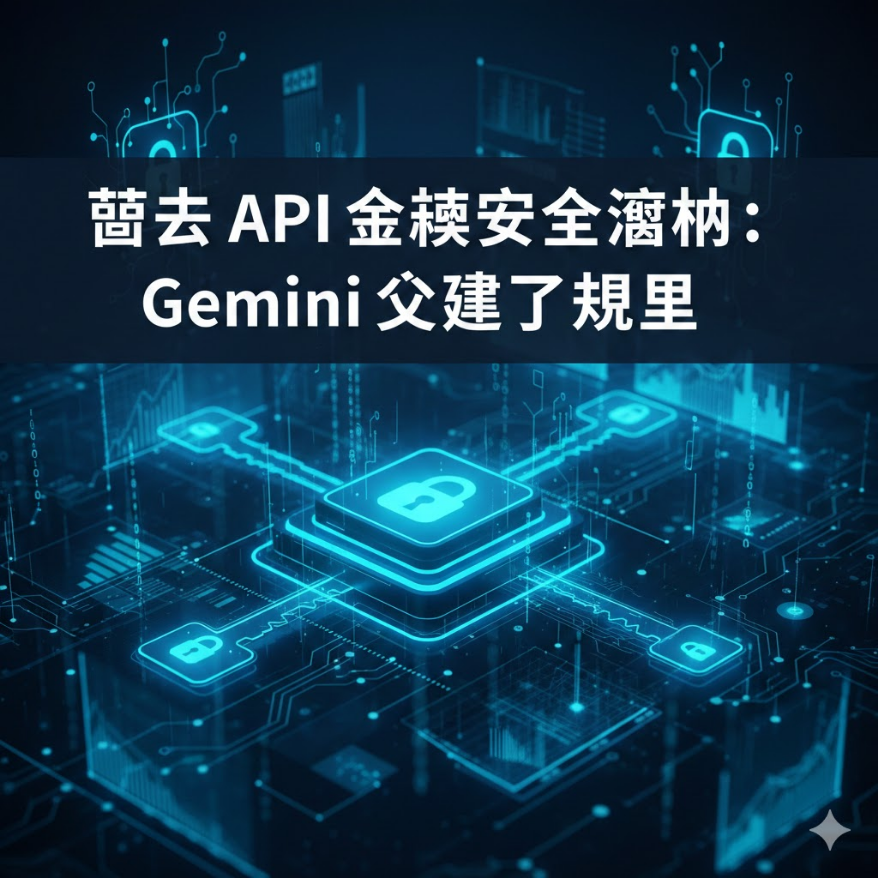
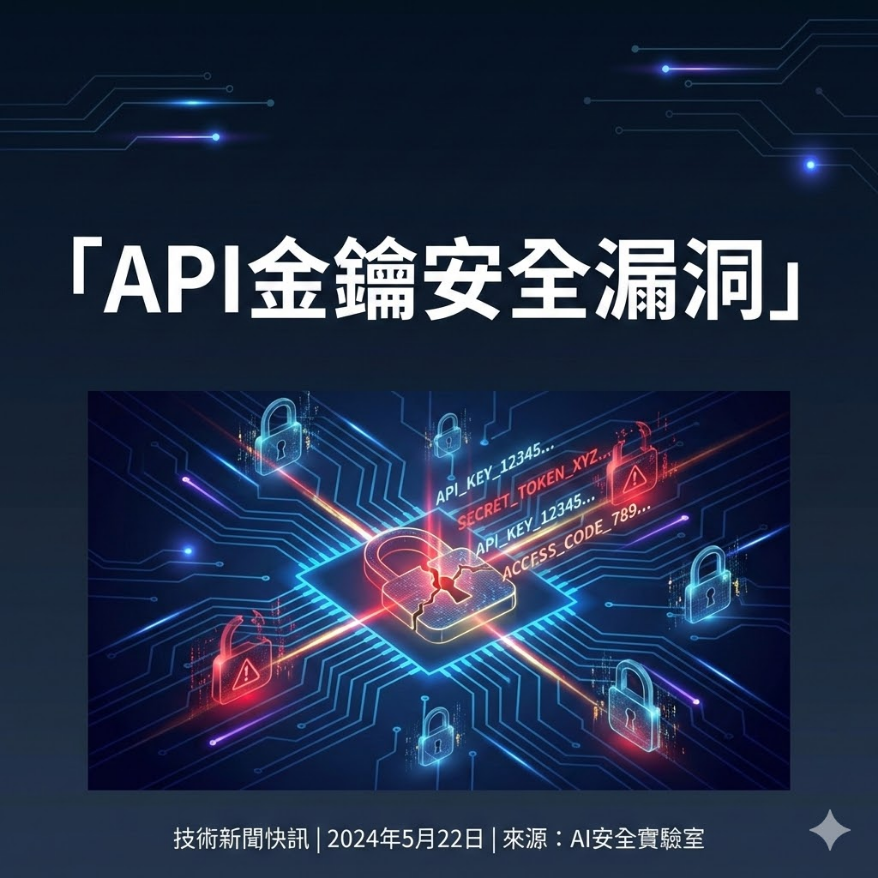
fix: regenerate 3 news images with Pro model (replace fast model garbled CJK)

diff --git a/tools/ai-news-pipeline.py b/tools/ai-news-pipeline.py
@@ -314,7 +314,7 @@ def generate_image(prompt: str, title_zh: str, filename: str) -> bool:
         try:
             resp = httpx.post(
                 f"{AI_HUB_BASE}/api/image/generate",
-                json={"prompt": full_prompt, "timeout": 120},
+                json={"prompt": full_prompt, "timeout": 120, "model": "pro"},
                 timeout=150,
             )
             data = resp.json()
